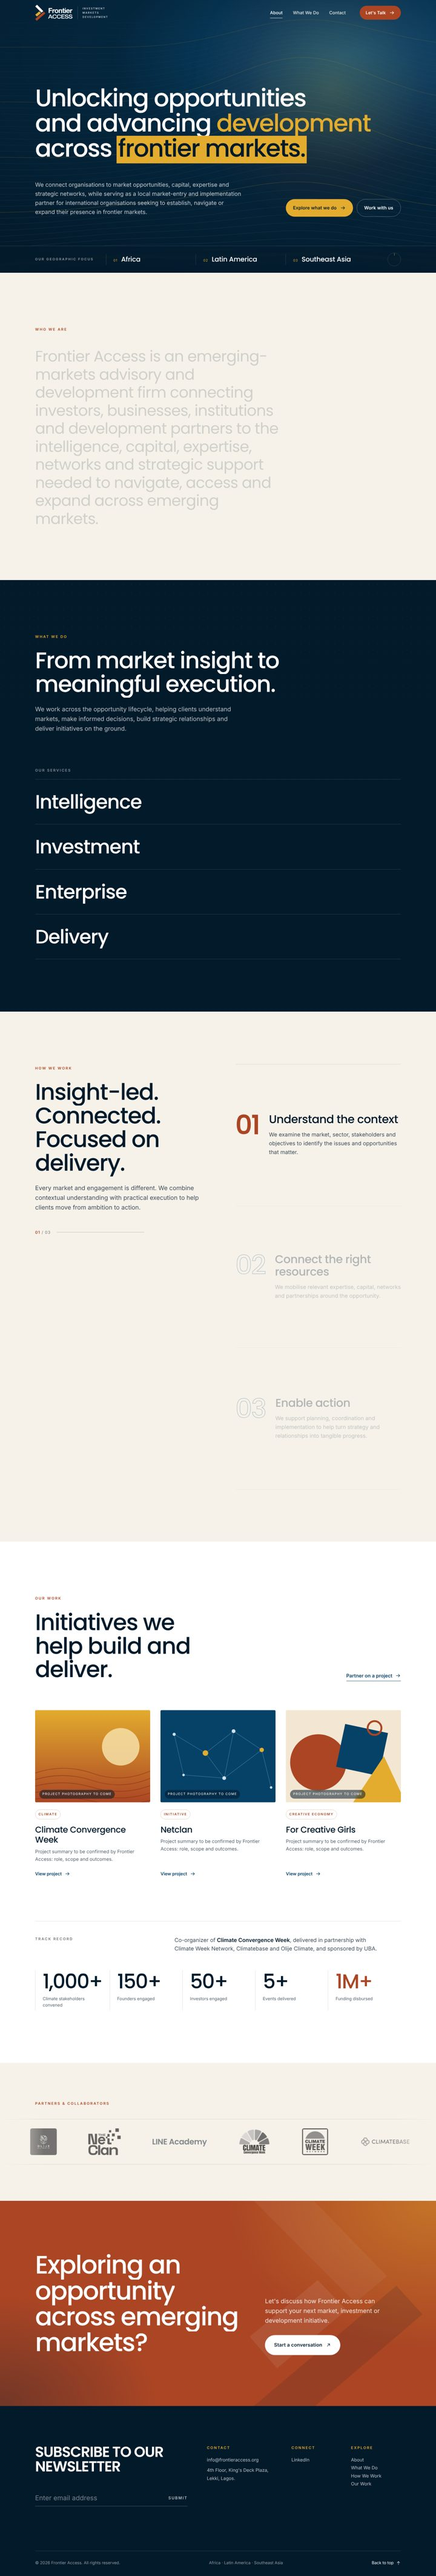
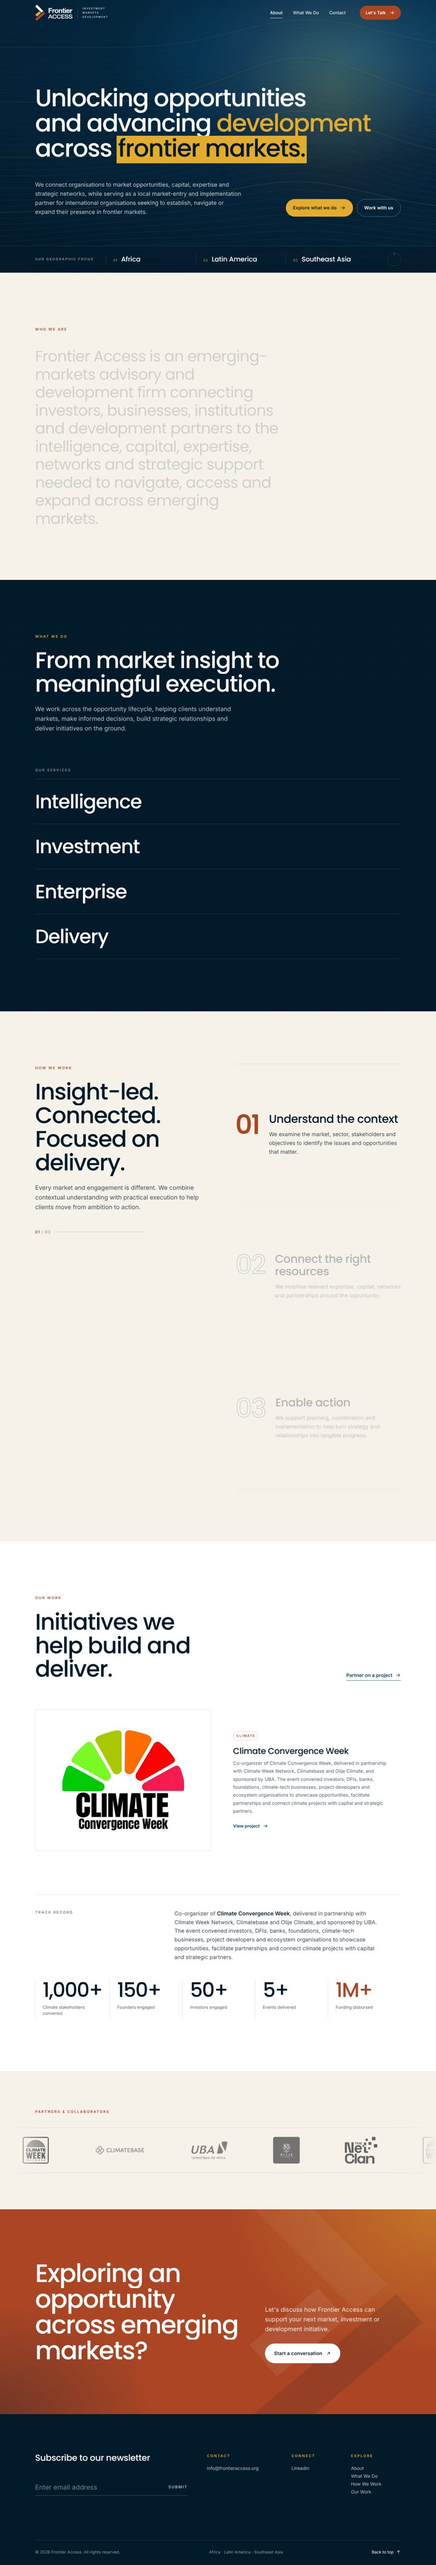
Feature Climate Convergence Week; trim partners, footer and newsletter
- Our work: one featured Climate Convergence Week project with its logo
  and full description; the Netclan and For Creative Girls cards are
  removed.
- Track record: add the sentence on who the event convened.
- Partners: remove the Climate Convergence Week logo and LINE Academy,
  and widen spacing so the five logos fill the strip.
- Footer: remove the office address.
- Newsletter heading: smaller and in sentence case.

Claude-Session: https://claude.ai/code/session_013iMuxdDqZ6bm7NfrpEJfTy

diff --git a/index.html b/index.html
@@ -243,68 +243,15 @@
           <a href="#contact" class="text-link" data-reveal>Partner on a project <svg aria-hidden="true"><use href="#arrow" /></svg></a>
         </div>
 
-        <div class="work-grid">
-          <!-- PROJECT 1 -->
-          <a class="project" href="#contact" data-reveal style="--d:0s">
-            <div class="project-media media-ccw">
-              <!-- Replace with project photo: <img src="images/ccw.jpg" alt="..."> -->
-              <svg viewBox="0 0 400 300" preserveAspectRatio="xMidYMid slice" aria-hidden="true">
-                <defs>
-                  <linearGradient id="g1" x1="0" y1="0" x2="0" y2="1"><stop offset="0" stop-color="#E3AC2E"/><stop offset="1" stop-color="#AB4524"/></linearGradient>
-                </defs>
-                <rect width="400" height="300" fill="url(#g1)" />
-                <circle cx="290" cy="120" r="60" fill="#F6E1A8" opacity=".85" />
-                <g fill="none" stroke="#7d2f16" stroke-width="2" opacity=".55">
-                  <path d="M0 210 Q100 170 200 205 T400 190" /><path d="M0 230 Q100 195 200 228 T400 214" /><path d="M0 250 Q100 220 200 250 T400 238" /><path d="M0 270 Q100 245 200 272 T400 262" /><path d="M0 290 Q100 270 200 294 T400 286" />
-                </g>
-              </svg>
-              <span class="media-note">Project photography to come</span>
+        <div class="work-grid is-single">
+          <a class="project project--feature" href="#contact" data-reveal>
+            <div class="project-media project-media--logo">
+              <img src="assets/work/climate-convergence-week.jpg" alt="Climate Convergence Week logo" width="720" height="580" decoding="async" />
             </div>
             <div class="project-body">
               <span class="tag">Climate</span>
               <h3>Climate Convergence Week</h3>
-              <p>Project summary to be confirmed by Frontier Access: role, scope and outcomes.</p>
-              <span class="project-link">View project <svg aria-hidden="true"><use href="#arrow" /></svg></span>
-            </div>
-          </a>
-
-          <!-- PROJECT 2 -->
-          <a class="project" href="#contact" data-reveal style="--d:.1s">
-            <div class="project-media media-netclan">
-              <svg viewBox="0 0 400 300" preserveAspectRatio="xMidYMid slice" aria-hidden="true">
-                <rect width="400" height="300" fill="#064268" />
-                <g stroke="#5f93b5" stroke-width="1.2" opacity=".7">
-                  <line x1="60" y1="80" x2="160" y2="140"/><line x1="160" y1="140" x2="250" y2="70"/><line x1="160" y1="140" x2="220" y2="220"/><line x1="250" y1="70" x2="340" y2="130"/><line x1="220" y1="220" x2="340" y2="130"/><line x1="60" y1="80" x2="90" y2="210"/><line x1="90" y1="210" x2="220" y2="220"/><line x1="340" y1="130" x2="370" y2="250"/><line x1="250" y1="70" x2="220" y2="220"/>
-                </g>
-                <g fill="#E3AC2E"><circle cx="160" cy="140" r="9"/><circle cx="340" cy="130" r="7"/></g>
-                <g fill="#cfe0ec"><circle cx="60" cy="80" r="5"/><circle cx="250" cy="70" r="6"/><circle cx="220" cy="220" r="6"/><circle cx="90" cy="210" r="4"/><circle cx="370" cy="250" r="4"/></g>
-              </svg>
-              <span class="media-note">Project photography to come</span>
-            </div>
-            <div class="project-body">
-              <span class="tag">Initiative</span>
-              <h3>Netclan</h3>
-              <p>Project summary to be confirmed by Frontier Access: role, scope and outcomes.</p>
-              <span class="project-link">View project <svg aria-hidden="true"><use href="#arrow" /></svg></span>
-            </div>
-          </a>
-
-          <!-- PROJECT 3 -->
-          <a class="project" href="#contact" data-reveal style="--d:.2s">
-            <div class="project-media media-fcg">
-              <svg viewBox="0 0 400 300" preserveAspectRatio="xMidYMid slice" aria-hidden="true">
-                <rect width="400" height="300" fill="#F3E7D3" />
-                <circle cx="120" cy="170" r="90" fill="#AB4524" />
-                <rect x="190" y="60" width="140" height="140" fill="#064268" transform="rotate(12 260 130)" />
-                <path d="M230 300 L330 150 L400 300 Z" fill="#E3AC2E" />
-                <circle cx="300" cy="60" r="22" fill="none" stroke="#AB4524" stroke-width="6" />
-              </svg>
-              <span class="media-note">Project photography to come</span>
-            </div>
-            <div class="project-body">
-              <span class="tag">Creative economy</span>
-              <h3>For Creative Girls</h3>
-              <p>Project summary to be confirmed by Frontier Access: role, scope and outcomes.</p>
+              <p>Co-organizer of Climate Convergence Week, delivered in partnership with Climate Week Network, Climatebase and Olije Climate, and sponsored by UBA. The event convened investors, DFIs, banks, foundations, climate-tech businesses, project developers and ecosystem organisations to showcase opportunities, facilitate partnerships and connect climate projects with capital and strategic partners.</p>
               <span class="project-link">View project <svg aria-hidden="true"><use href="#arrow" /></svg></span>
             </div>
           </a>
@@ -314,7 +261,7 @@
         <div class="track">
           <div class="track-head" data-reveal>
             <p class="list-label">Track record</p>
-            <p class="track-intro">Co-organizer of <strong>Climate Convergence Week</strong>, delivered in partnership with Climate Week Network, Climatebase and Olije Climate, and sponsored by UBA.</p>
+            <p class="track-intro">Co-organizer of <strong>Climate Convergence Week</strong>, delivered in partnership with Climate Week Network, Climatebase and Olije Climate, and sponsored by UBA. The event convened investors, DFIs, banks, foundations, climate-tech businesses, project developers and ecosystem organisations to showcase opportunities, facilitate partnerships and connect climate projects with capital and strategic partners.</p>
           </div>
           <dl class="stats">
             <div class="stat" data-reveal><dt><span data-count="1000">0</span>+</dt><dd>Climate stakeholders convened</dd></div>
@@ -335,14 +282,11 @@
       <div class="marquee" data-marquee>
         <div class="marquee-track">
           <ul class="marquee-group">
-            <li><img class="partner-logo is-tall" src="assets/partners/climate-convergence-week.png" alt="Climate Convergence Week" width="244" height="200" decoding="async" /></li>
             <li><img class="partner-logo is-tall" src="assets/partners/climate-week-network.png" alt="Climate Week Network" width="195" height="200" decoding="async" /></li>
             <li><img class="partner-logo is-xwide" src="assets/partners/climatebase.png" alt="Climatebase" width="219" height="51" decoding="async" /></li>
             <li><img class="partner-logo is-wide" src="assets/partners/uba.png" alt="UBA (United Bank for Africa)" width="414" height="200" decoding="async" /></li>
             <li><img class="partner-logo is-tall" src="assets/partners/olije-climate.jpg" alt="Olije Climate" width="200" height="200" decoding="async" /></li>
             <li><img class="partner-logo is-tall" src="assets/partners/net-clan.png" alt="The Net Clan" width="243" height="200" decoding="async" /></li>
-            <!-- TODO: replace with the LINE Academy logo file when supplied -->
-            <li><span class="partner-text">LINE Academy</span></li>
           </ul>
         </div>
       </div>
@@ -383,7 +327,6 @@
             <ul>
               <li><a href="mailto:info@frontieraccess.org" class="ulink">info@frontieraccess.org</a></li>
             </ul>
-            <address>4th Floor, King's Deck Plaza,<br />Lekki, Lagos.</address>
           </div>
           <div data-reveal style="--d:.1s">
             <h4>Connect</h4>

diff --git a/styles.css b/styles.css
@@ -332,9 +332,17 @@ body.menu-open .mobile-menu li:nth-child(5) a { transition-delay: .44s; }
 .work-head .h2 { max-width: 13ch; }
 .work-grid { display: grid; grid-template-columns: repeat(3, 1fr); gap: clamp(20px, 2.4vw, 36px); margin-top: clamp(56px, 7vw, 96px); }
 .project { display: flex; flex-direction: column; color: var(--ink); }
+.work-grid.is-single { grid-template-columns: 1fr; }
+.project--feature { display: grid; grid-template-columns: 1.05fr 1fr; gap: clamp(32px, 5vw, 88px); align-items: center; }
+.project--feature .project-body { padding-top: 0; }
+.project--feature h3 { font-size: clamp(28px, 2.8vw, 40px); }
+.project--feature p { font-size: 16px; line-height: 1.7; max-width: 52ch; }
+
+.project-media--logo img { object-fit: contain; padding: 12% 16%; }
 .project-media { position: relative; aspect-ratio: 4 / 3.2; overflow: hidden; border-radius: 4px; background: var(--paper-2); }
 .project-media svg, .project-media img { width: 100%; height: 100%; object-fit: cover; transform: scale(1.02); transition: transform 1.2s var(--ease); }
 .project:hover .project-media svg, .project:hover .project-media img { transform: scale(1.08); }
+.project-media.project-media--logo { background: #fff; border: 1px solid var(--line); }
 .project-media::after { content: ""; position: absolute; inset: 0; background: linear-gradient(180deg, transparent 55%, rgba(3,26,43,.35)); opacity: 0; transition: opacity .6s; }
 .project:hover .project-media::after { opacity: 1; }
 .media-note { position: absolute; left: 14px; bottom: 12px; z-index: 1; font-size: 10.5px; letter-spacing: .16em; text-transform: uppercase; color: #fff; background: rgba(3,26,43,.55); padding: 6px 10px; border-radius: 999px; backdrop-filter: blur(4px); }
@@ -365,14 +373,12 @@ body.menu-open .mobile-menu li:nth-child(5) a { transition-delay: .44s; }
 .marquee-track { display: flex; width: max-content; animation: marquee 38s linear infinite; }
 .marquee:hover .marquee-track { animation-play-state: paused; }
 .marquee-group { display: flex; flex: none; }
-.marquee-group li { display: flex; align-items: center; justify-content: center; padding: 30px clamp(28px, 3.6vw, 56px); }
+.marquee-group li { display: flex; align-items: center; justify-content: center; padding: 30px clamp(36px, 5.2vw, 90px); }
 .partner-logo { display: block; width: auto; height: 88px; border-radius: 6px; filter: grayscale(1); opacity: .7; transition: filter .45s var(--ease), opacity .45s var(--ease), transform .45s var(--ease); }
 .partner-logo.is-wide { height: 58px; }
 .partner-logo.is-xwide { height: 40px; }
 .marquee-group li:hover .partner-logo { filter: none; opacity: 1; transform: scale(1.04); }
-.partner-text { font-family: var(--f-head); font-weight: 600; font-size: 26px; letter-spacing: -.02em; white-space: nowrap; color: rgba(12,28,41,.5); transition: color .4s; }
-.marquee-group li:hover .partner-text { color: var(--navy); }
-@keyframes marquee { to { transform: translateX(-50%); } }
+.marquee-group li:hover @keyframes marquee { to { transform: translateX(-50%); } }
 
 /* ---------- CTA ---------- */
 .cta { position: relative; background: var(--rust); color: #fff; padding: clamp(96px, 12vw, 168px) 0; overflow: hidden; isolation: isolate; }
@@ -387,7 +393,7 @@ body.menu-open .mobile-menu li:nth-child(5) a { transition-delay: .44s; }
 .footer-top { display: grid; grid-template-columns: 1.1fr 1.4fr; gap: 64px; align-items: start; }
 .sr-only { position: absolute; width: 1px; height: 1px; padding: 0; margin: -1px; overflow: hidden; clip: rect(0 0 0 0); white-space: nowrap; border: 0; }
 .newsletter { max-width: 620px; }
-.newsletter-title { font-family: var(--f-head); font-weight: 600; font-size: clamp(30px, 3.4vw, 48px); line-height: 1; letter-spacing: -.035em; text-transform: uppercase; color: #fff; }
+.newsletter-title { font-family: var(--f-head); font-weight: 500; font-size: clamp(22px, 2vw, 30px); line-height: 1.15; letter-spacing: -.02em; color: #fff; }
 .newsletter-field { position: relative; display: flex; align-items: center; gap: 16px; margin-top: clamp(32px, 4vw, 52px); border-bottom: 1px solid rgba(255,255,255,.3); }
 .newsletter-field::after { content: ""; position: absolute; left: 0; right: 0; bottom: -1px; height: 1px; background: var(--gold); transform: scaleX(0); transform-origin: left; transition: transform .6s var(--ease); }
 .newsletter-field:focus-within::after { transform: scaleX(1); }
@@ -434,6 +440,8 @@ body.menu-open .mobile-menu li:nth-child(5) a { transition-delay: .44s; }
   .step { min-height: 0; opacity: 1; padding: 40px 0; }
   .step .step-num { color: var(--rust); -webkit-text-stroke-color: var(--rust); }
   .work-grid { grid-template-columns: 1fr; gap: 56px; }
+  .project--feature { grid-template-columns: 1fr; gap: 24px; }
+  .project--feature p { font-size: 16px; }
   .cta-inner { grid-template-columns: 1fr; }
   .footer-top { grid-template-columns: 1fr; }
   .client-detail-inner { grid-template-columns: 1fr; gap: 12px; }
@@ -452,8 +460,7 @@ body.menu-open .mobile-menu li:nth-child(5) a { transition-delay: .44s; }
   .partner-logo { height: 64px; }
   .partner-logo.is-wide { height: 42px; }
   .partner-logo.is-xwide { height: 30px; }
-  .partner-text { font-size: 21px; }
-}
+  }
 
 /* Reduced motion */
 @media (prefers-reduced-motion: reduce) {

diff --git a/README.md b/README.md
@@ -11,6 +11,7 @@ One-page website for **Frontier Access** (frontieraccess.org), an emerging-marke
 | `index.html` | Page markup and all copy |
 | `styles.css` | Brand palette (navy `#064268`, rust `#AB4524`, gold `#E3AC2E`), layout, responsive rules, animations |
 | `main.js` | Hero contour-line canvas, scroll reveals, word-fill statement, expandable "What we do" rows, sticky "How we work" steps, counters, partner marquee, header and mobile menu |
+| `assets/work/` | Image for the Our Work project card |
 | `assets/partners/` | Partner logos used in the Partners & collaborators strip |
 | `assets/logo/` | Official logo files (PNG originals), vector SVG versions, favicon and touch icon |
 | `preview/` | Full-page desktop and mobile screenshots |
@@ -29,7 +30,7 @@ In `index.html` the logo is inlined once as `<symbol id="fa-logo">` / `<symbol i
 
 ## Placeholders to replace before launch
 
-- **Our Work**: project photos (currently illustrations marked "Project photography to come") and summaries for Climate Convergence Week, Netclan and For Creative Girls.
-- **Partners**: logos for six partners are in `assets/partners/`. LINE Academy still shows as text until its logo file is supplied.
+- **Our Work**: shows one project, Climate Convergence Week, using its logo (`assets/work/`). Add a project photo there if you want one instead.
+- **Partners**: logos for Climate Week Network, Climatebase, UBA, Olije Climate and The Net Clan are in `assets/partners/`.
 - **LinkedIn**: the footer link is `href="#"` until the company page URL is confirmed.
 - **Newsletter**: with no mailing-list service connected, Submit opens an email to info@frontieraccess.org asking to be added. To collect sign-ups automatically, set the form's `action`/`method` to your provider's form URL (see the comment above the form in `index.html`).
